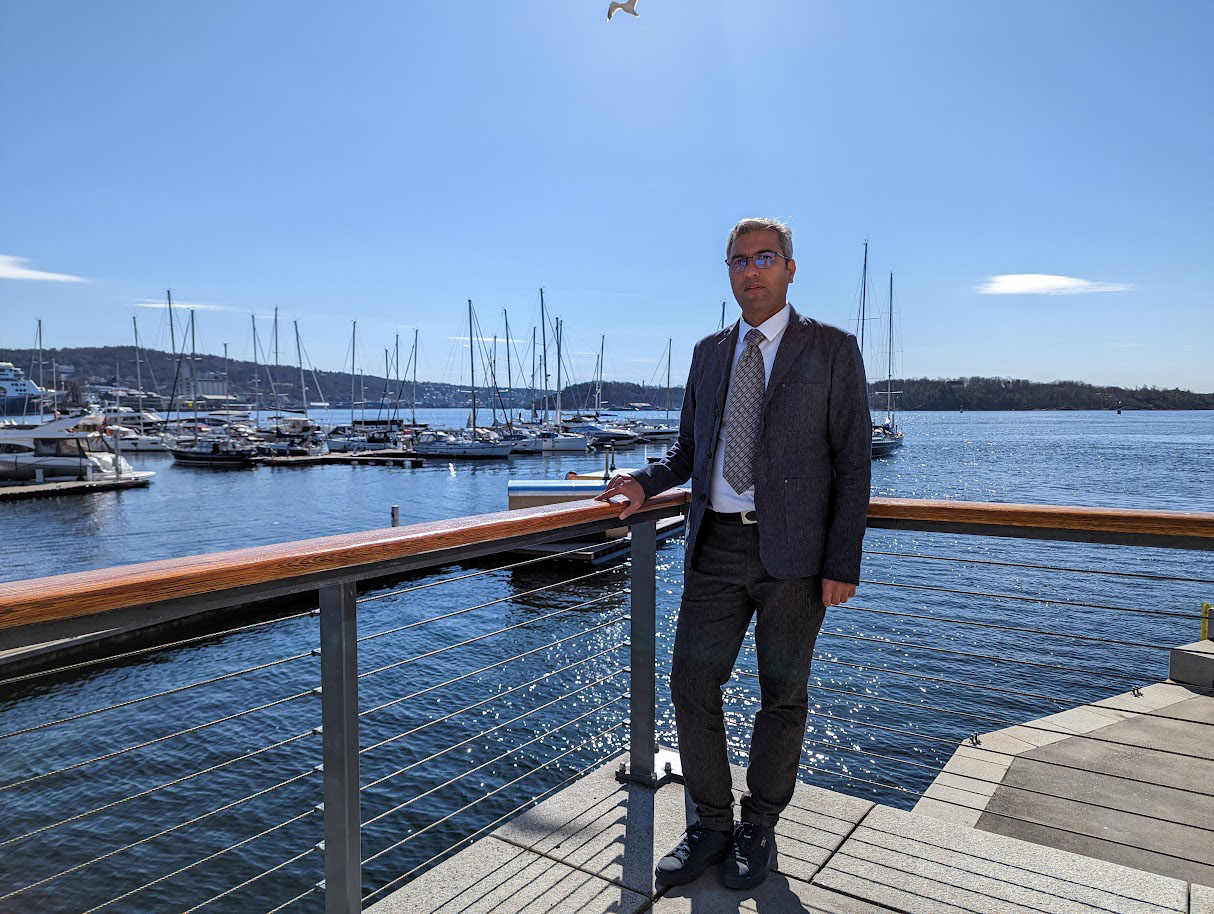
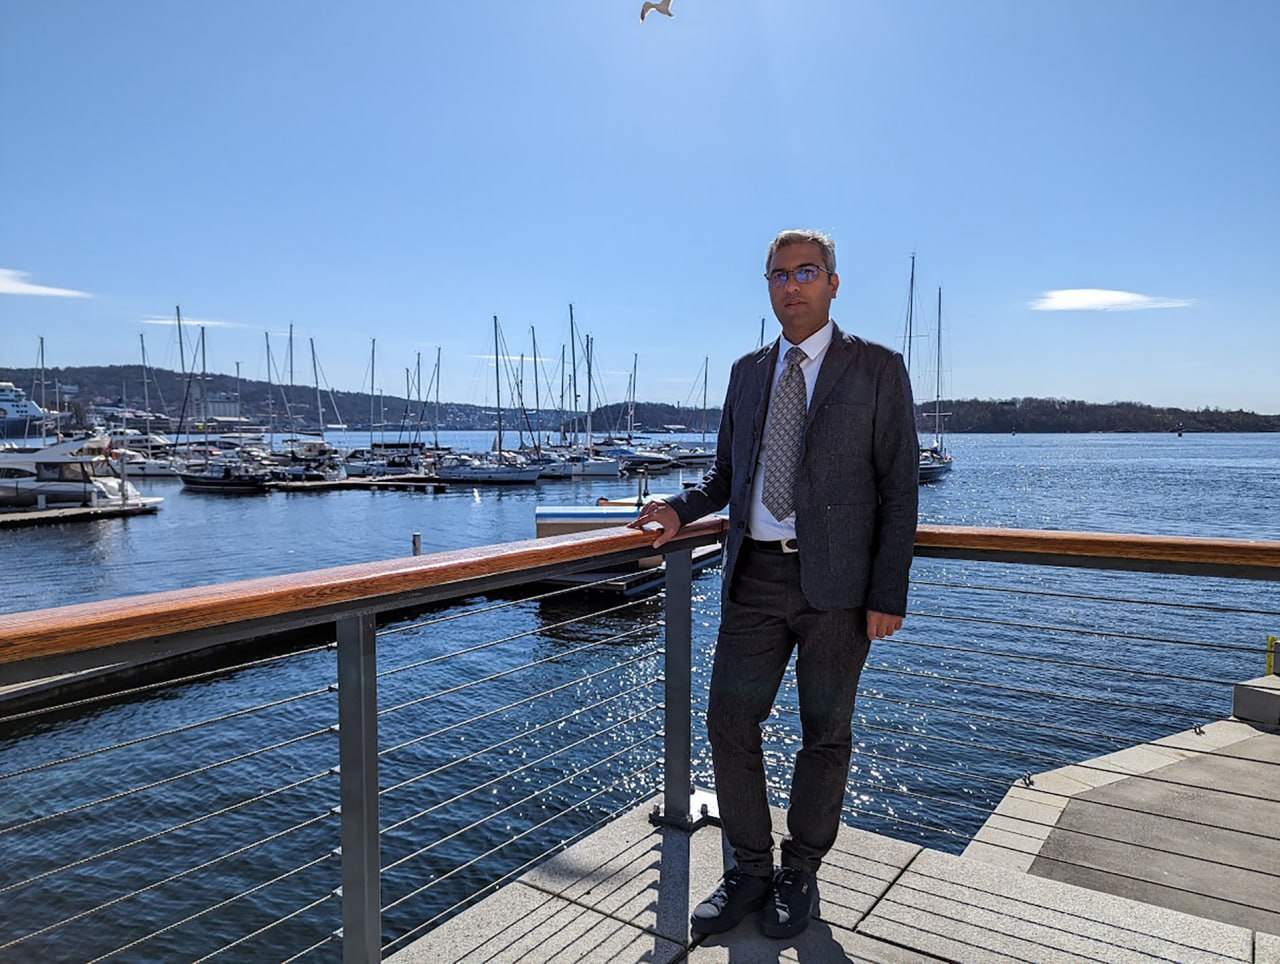
update About image and with

diff --git a/components/about/pageStyled.js b/components/about/pageStyled.js
@@ -17,7 +17,7 @@ export const AboutPage = styled.div`
         padding: 100px 10%;
 
         img {
-            width: 600px;
+            width: 100%;
             height: auto;  
         }
         p {
@@ -31,7 +31,6 @@ export const AboutPage = styled.div`
             margin: auto auto;
             width: 100%;
             height: auto;
-
         }
     }
 `
